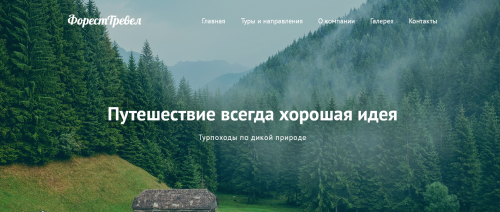
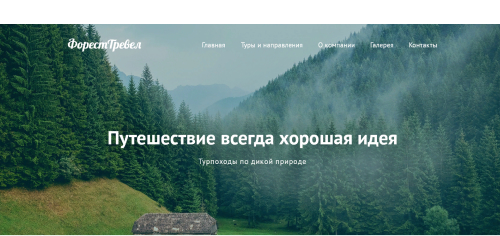
commit init

diff --git a/css/style.css b/css/style.css
@@ -84,7 +84,6 @@ header p
 .card
 {
   max-width: 540px;
-  height: 369px;
   background-color: #fff;
   padding: 20px;
   margin-bottom: 30px;
@@ -194,7 +193,6 @@ header p
 {
   background-color: #fff;
   color:black;
-  border:none;
 }
 nav
 {
